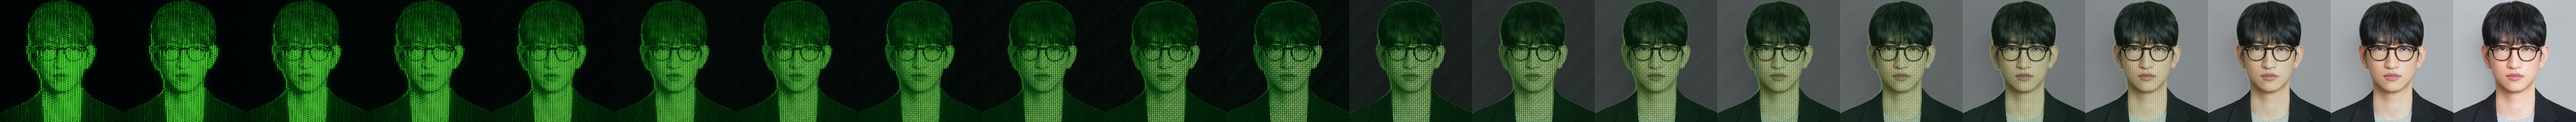
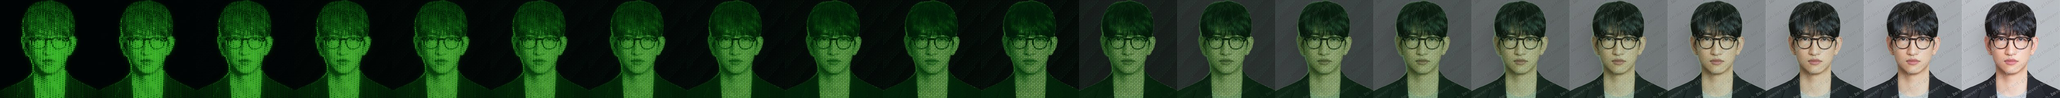
Protect photo: watermarked 240px sprite, stop publishing original; audit fixes
- Rebuild profile sprite with a watermarked, smaller original frame
- Stop tracking profile.jpg so the full-size photo is no longer served
- Mouse clicks no longer pin the photo on the original frame (touch still toggles)
- Avoid unhandled clipboard rejection on PrintScreen
- Remove unused CSS (.c-gray, .era.now)

diff --git a/index.html b/index.html
@@ -83,7 +83,6 @@
   .c-cyan { --ac: var(--cyan); }
   .c-purple { --ac: var(--purple); }
   .c-amber { --ac: var(--amber); }
-  .c-gray { --ac: #9aa5a0; }
 
   .chips { display: flex; flex-wrap: wrap; gap: 6px; }
   .chips span { font: 12px var(--mono); color: var(--ac, var(--green)); border: 1px solid color-mix(in srgb, var(--ac, var(--green)) 45%, transparent); background: color-mix(in srgb, var(--ac, var(--green)) 8%, transparent); padding: 2px 8px; border-radius: 4px; }
@@ -111,7 +110,6 @@
   .timeline::before { content: ""; position: absolute; left: 10%; right: 10%; top: 10px; height: 1px; background: var(--line-strong); }
   .era { display: flex; flex-direction: column; gap: 12px; position: relative; }
   .era .dot { width: 21px; height: 21px; border-radius: 50%; border: 2px solid var(--ac); background: var(--bg); margin: 0 auto 8px; position: relative; }
-  .era.now .dot::after { content: ""; position: absolute; inset: 4px; border-radius: 50%; background: var(--ac); }
   .era-card { background: var(--card); border: 1px solid var(--line); border-radius: 8px; padding: 22px 20px; min-height: 236px; display: flex; flex-direction: column; gap: 4px; }
   .era-year { font: 700 14px var(--mono); color: var(--ac); }
   .era-card h3 { font: 700 18px/1.4 var(--sans); color: #fff; margin-top: 4px; }
@@ -208,7 +206,6 @@
   footer { display: flex; align-items: flex-end; justify-content: center; flex-wrap: wrap; gap: 8px 20px; margin-top: 48px; font: 12px var(--mono); color: var(--muted); }
   footer pre { font: 10px/1.25 var(--mono); color: var(--green); opacity: .7; cursor: pointer; transition: opacity .2s; }
   footer pre:hover, footer pre:focus-visible { opacity: 1; }
-  /* 이스터에그: 트럭 배송 */
   /* 이스터에그: 릭롤 팝업 */
   .rick { width: min(720px, calc(100% - 32px)); margin: auto; padding: 0; background: #0e1210; border: 1px solid var(--line-strong); border-radius: 10px; overflow: hidden; color: var(--text); }
   .rick::backdrop { background: rgba(0, 0, 0, .8); }
@@ -714,9 +711,8 @@
   }), { rootMargin: '-40% 0px -55% 0px' });
   navLinks.forEach(a => spy.observe(document.querySelector(a.hash)));
 
-  // 프로필 사진: 터치 기기는 탭으로 전환
-  document.querySelectorAll(".morph").forEach(m => m.addEventListener("click", () => m.classList.toggle("on")));
-
+  // 프로필 사진: 터치 기기는 탭으로 전환 (마우스는 hover로 충분하므로 클릭 무시 → 클릭 후 원본에 멈춰 있는 문제 방지)
+  document.querySelectorAll(".morph").forEach(m => m.addEventListener("click", e => { if (e.pointerType !== "mouse") m.classList.toggle("on"); }));
 
   // ===== 보호 기능 (완벽한 차단은 불가능, 일반 방문자의 손쉬운 복사·저장을 막는 수준) =====
   // 이메일: HTML에 주소를 그대로 두지 않아 단순 수집 봇이 못 읽게 함
@@ -738,9 +734,9 @@
   });
   // 캡처 억제: PrintScreen 키를 누르면 잠시 화면을 흐리게
   const shield = on => document.body.classList.toggle('shield', on);
-  document.addEventListener('keyup', e => { if (e.key === 'PrintScreen') { try { navigator.clipboard.writeText(''); } catch (_) {} shield(true); setTimeout(() => shield(false), 1500); } });
+  document.addEventListener('keyup', e => { if (e.key === 'PrintScreen') { navigator.clipboard?.writeText('').catch(() => {}); shield(true); setTimeout(() => shield(false), 1500); } });
   // ===== 이스터에그 =====
-  // 1) 푸터 트럭 클릭 → 화면을 가로질러 배송
+  // 1) 푸터 트럭 클릭 → 그 트럭이 오른쪽으로 출발했다가 왼쪽에서 돌아옴
   const truck = document.getElementById('truck');
   let shipping = false;
   const ship = async () => {   // 클릭한 트럭이 오른쪽으로 출발 → 화면 밖으로 → 왼쪽에서 다시 들어와 제자리
